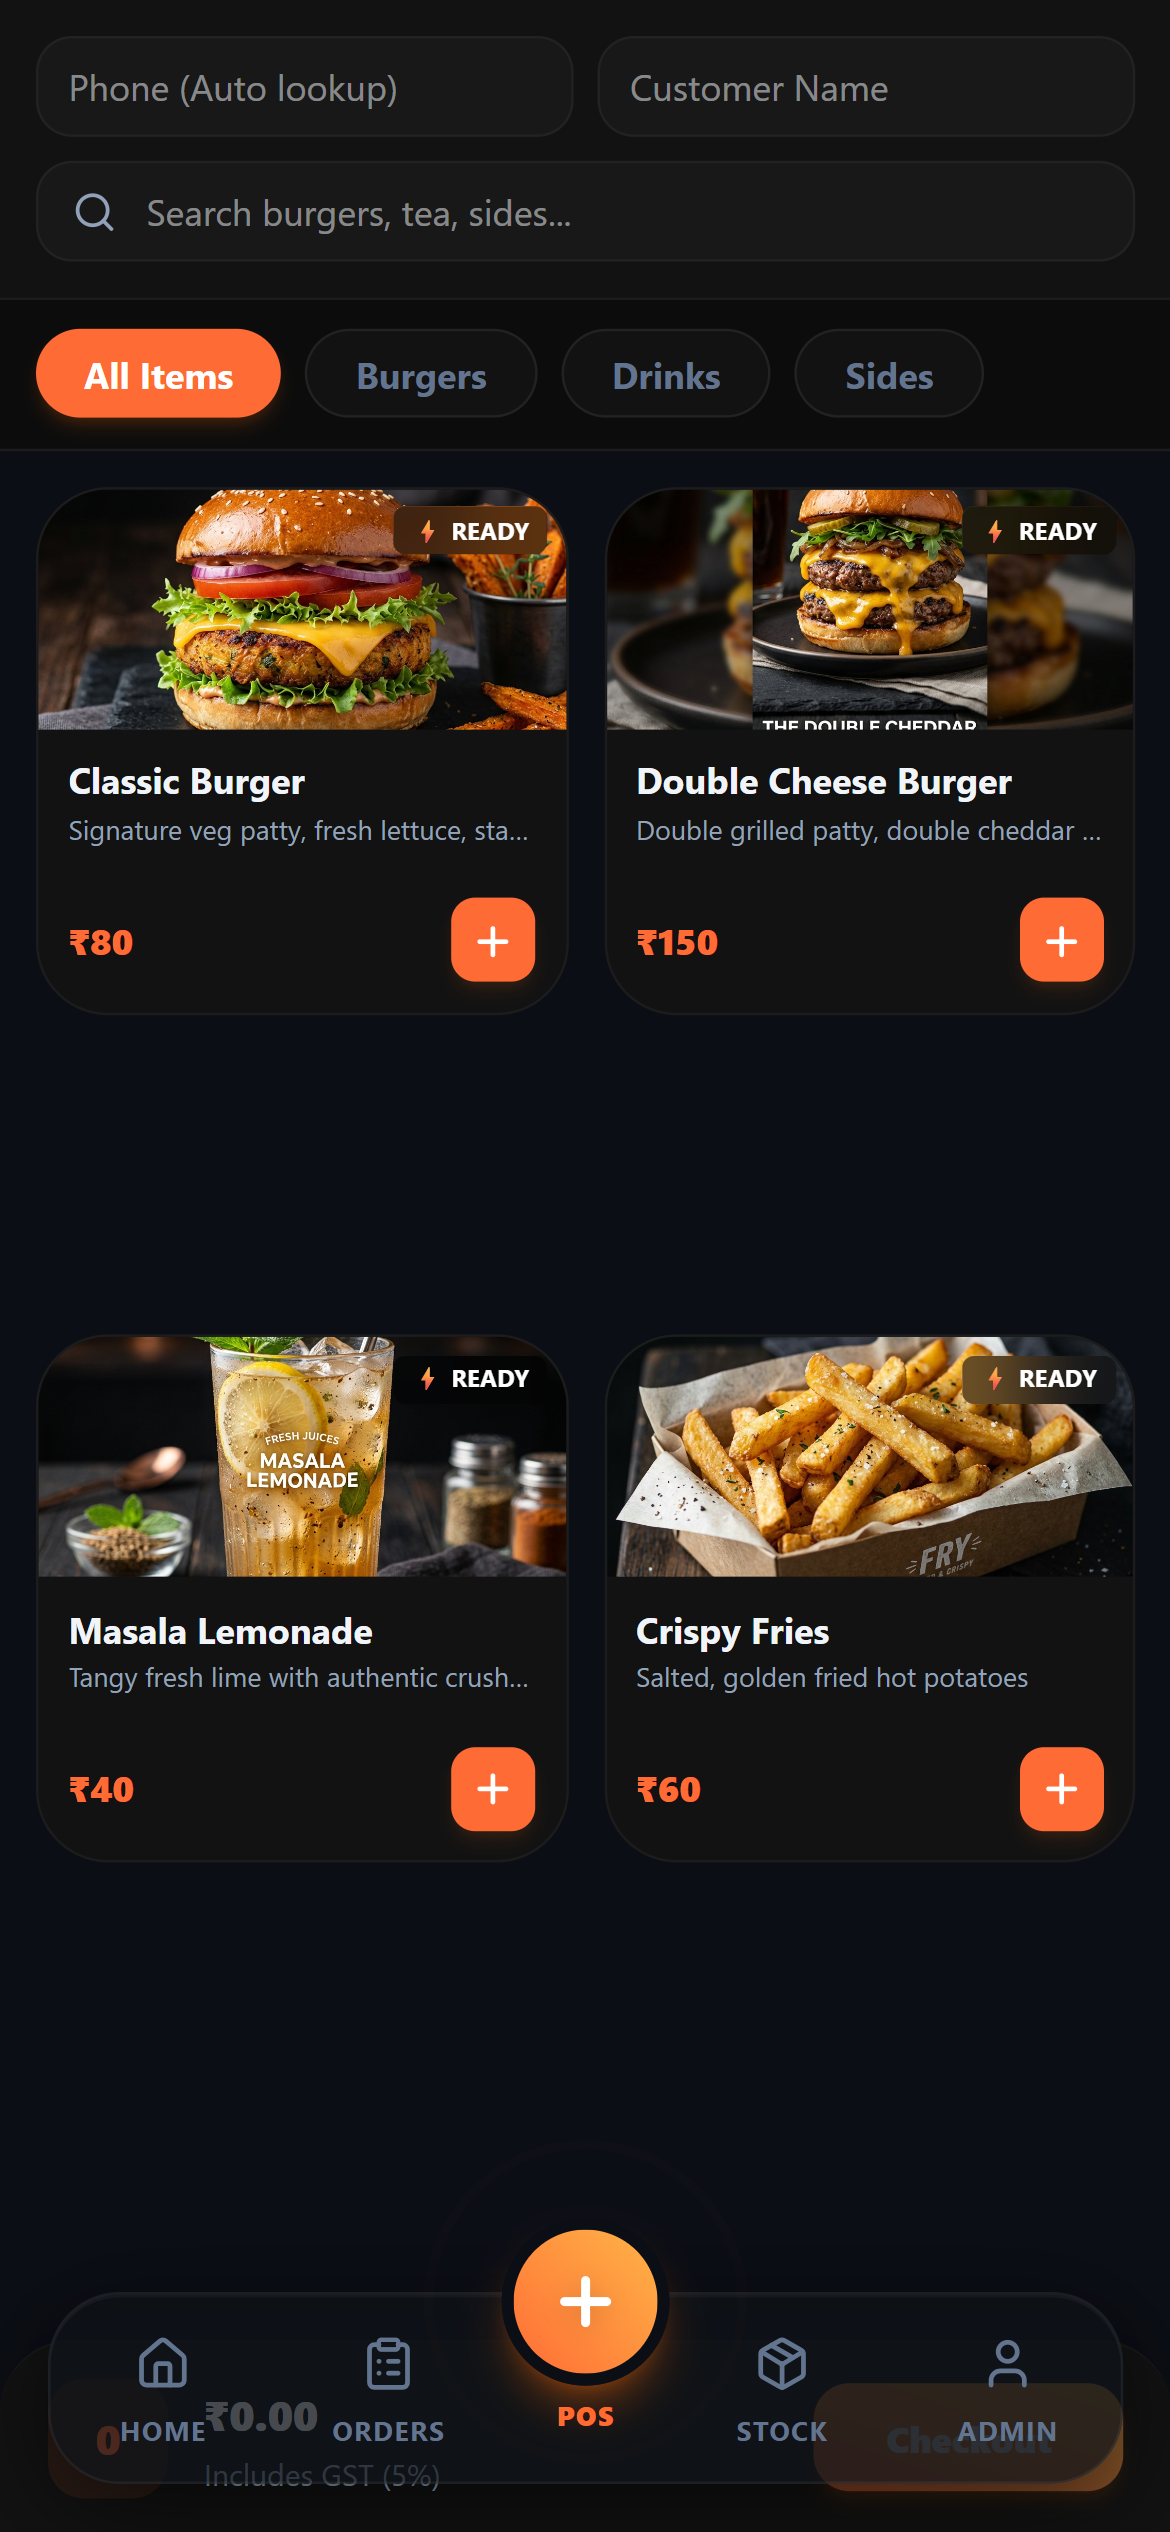
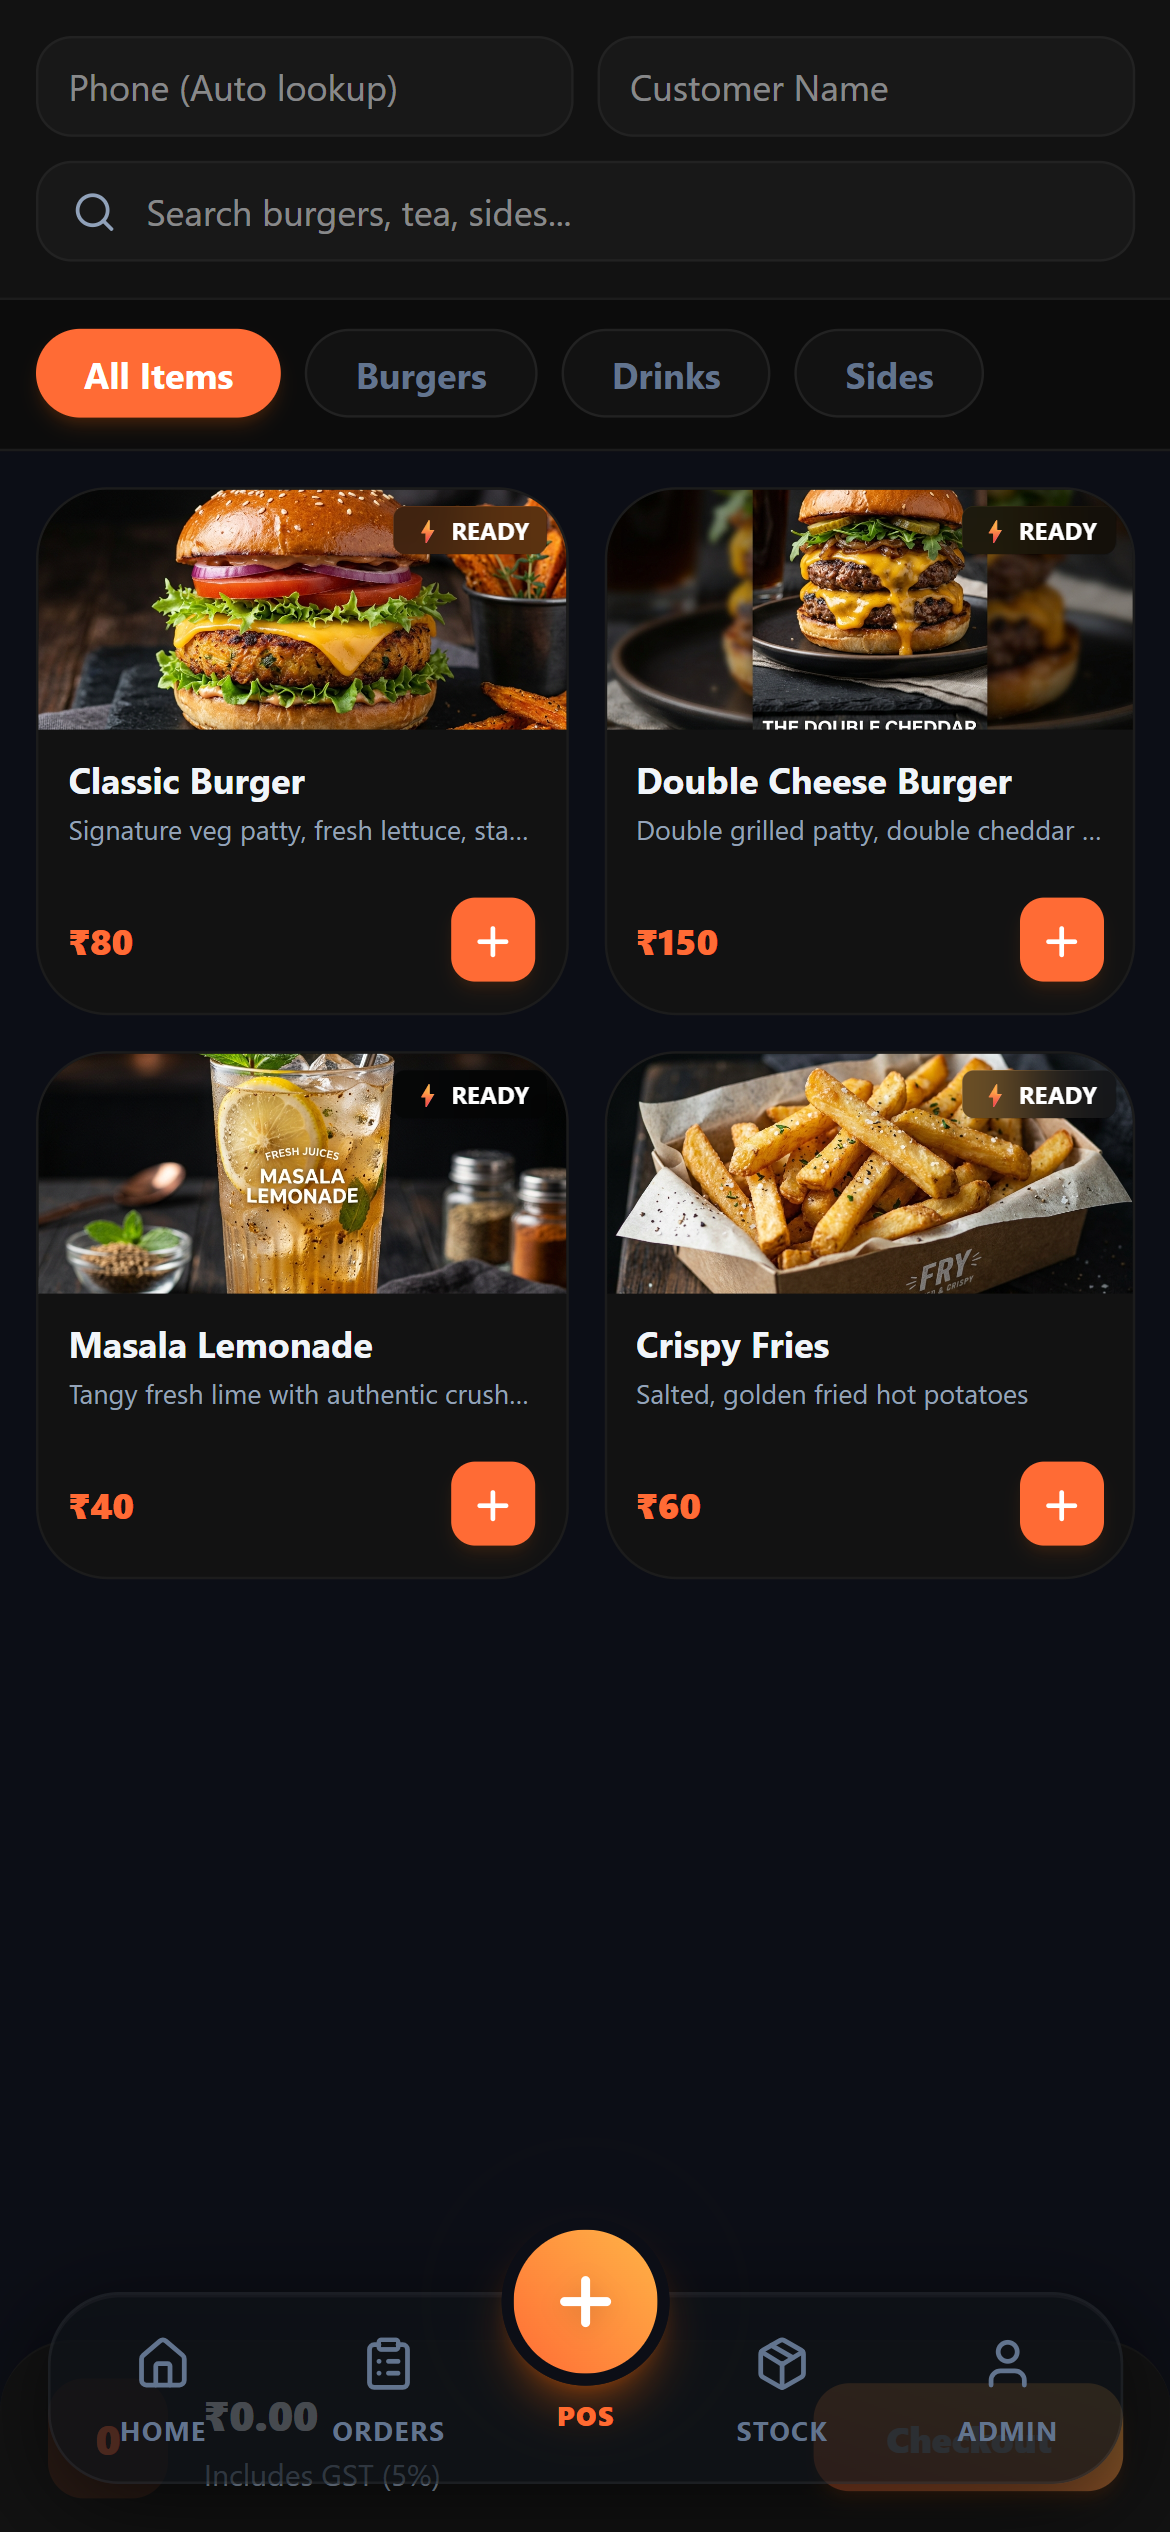
fix: resolve POS grid row vertical stretching bug
- Applied alignContent: 'start' inline style to the product grid in POSView.tsx to prevent rows from distributing/stretching vertically across the full viewport height.
- Re-captured and updated mobile.png and 03_pos_terminal.png screenshots to show the clean, tightly-aligned layout.

diff --git a/src/components/views/POSView.tsx b/src/components/views/POSView.tsx
@@ -310,7 +310,7 @@ export const POSView: React.FC = () => {
       </div>
 
       {/* Product Card Grid */}
-      <div className="flex-1 overflow-y-auto p-3 grid grid-cols-2 gap-3 pb-32 no-scrollbar">
+      <div className="flex-1 overflow-y-auto p-3 grid grid-cols-2 gap-3 pb-32 no-scrollbar" style={{ alignContent: 'start' }}>
         {filteredProducts.length === 0 ? (
           <div className="col-span-2 text-center text-xs text-muted py-20">
             No items matched your filter query.